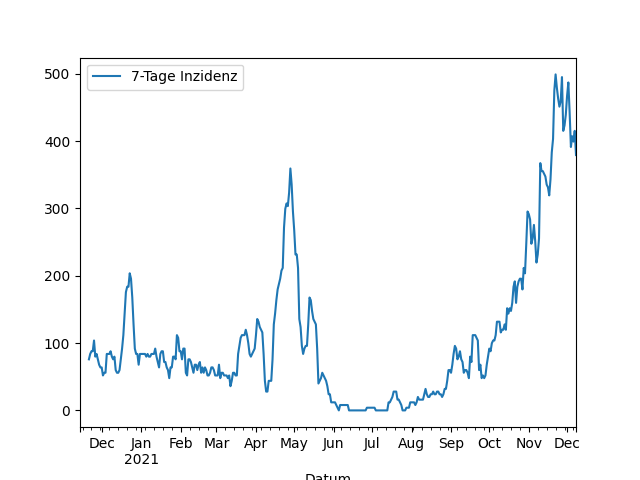
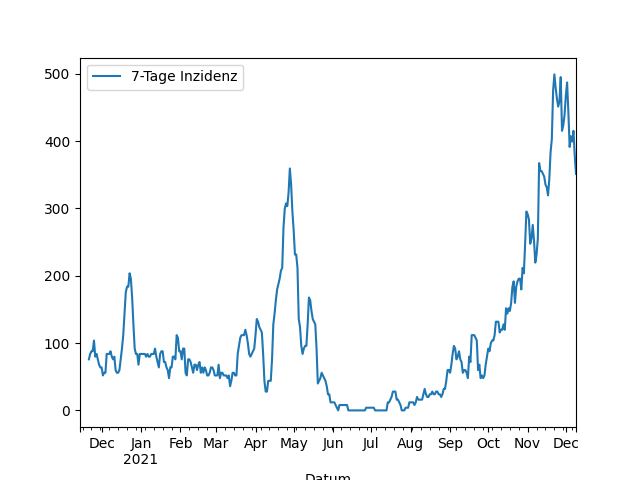
Update images

diff --git a/_includes/aktuelle_inzidenz.md b/_includes/aktuelle_inzidenz.md
@@ -1,1 +1,1 @@
-379,2
+351,3
